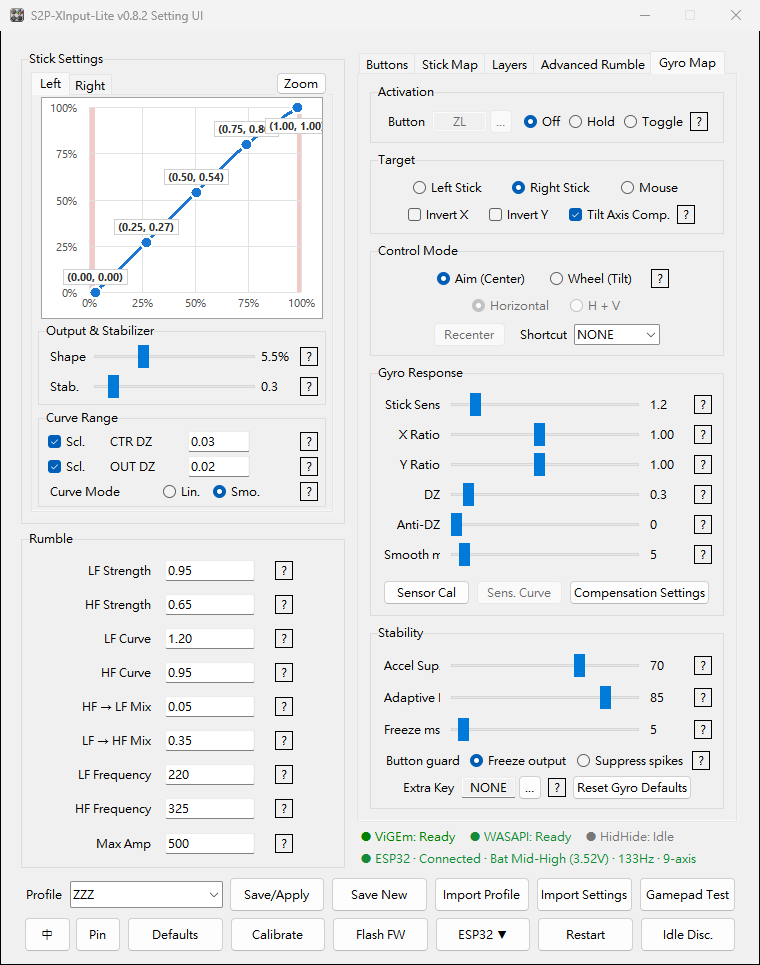
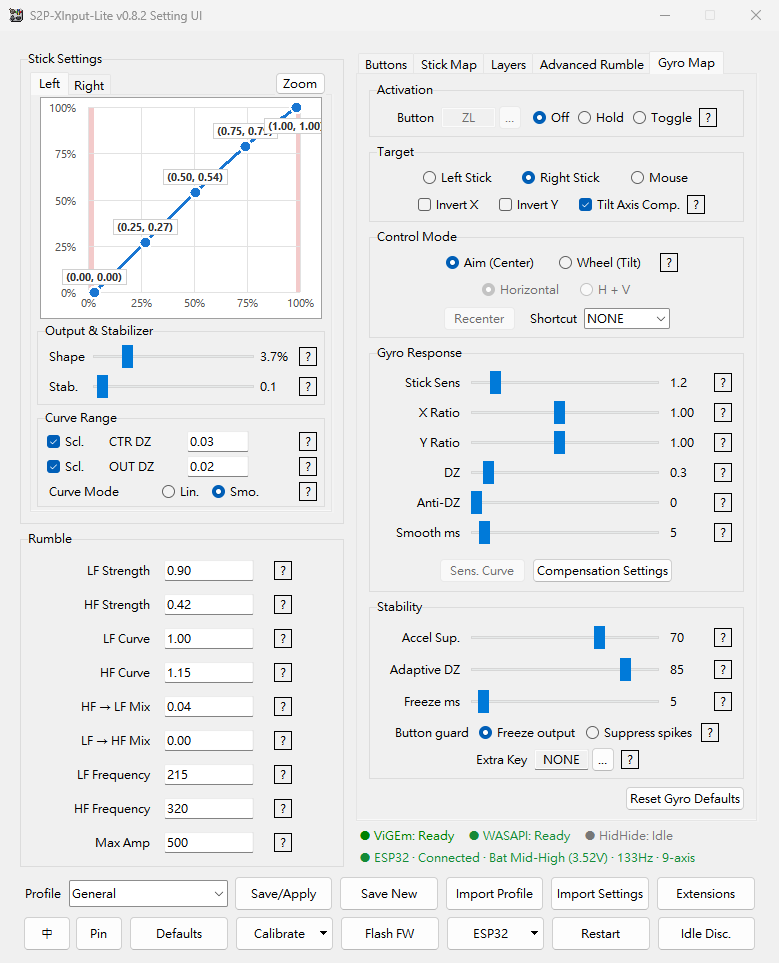
Add stable section anchors to the user guides and retake the gyro screenshots
The release notes link each new feature to its section in the guide for the reader's language. The Gyro Map tab and Compensation Settings screenshots now show the current layout and the Keep the original speed cap option.

diff --git a/manual/USER_GUIDE.md b/manual/USER_GUIDE.md
@@ -87,6 +87,8 @@ running, outputs XInput through ViGEmBus, and handles rumble and audio rumble.
 ESP32-S3 itself acts as a USB HID controller. Physical USB XInput has
 licensing issues and must not be added.
 
+<a name="connector-window"></a>
+
 ### 1.4 Connector window and notification area
 
 Connecting opens a separate black connector (CMD) window that shows pairing,
@@ -217,6 +219,8 @@ before it disconnects: **Off**, 5, 10, 15, 30, or 60 minutes. The default is
 After it disconnects, the status bar shows
 `ESP32 · Idle; press any button to wake`. Press any controller button to wake
 and reconnect.
+
+<a name="extensions"></a>
 
 ### 2.7 Extensions
 
@@ -411,6 +415,8 @@ key combination to map, such as F12, Ctrl+S, or Ctrl+Shift+S. The field shows
 short forms such as `KB:1`, `KB:Ctrl+S`, and `M:Wheel↓`. Hover over it to see
 the full mapping.
 
+<a name="gamepad-combo"></a>
+
 #### Press several XInput buttons at once
 
 ![Choosing a gamepad combo](assets/v0.8.2/gamepad-combo.png)
@@ -580,6 +586,8 @@ explains it in detail.
   **Shortcut** reset the neutral angle. A shortcut assigned here only resets
   the neutral angle and no longer sends its game mapping.
 
+<a name="gyro-response"></a>
+
 ### 6.4 Gyro Response
 
 Only the fields that apply to the current target and control mode are shown.
@@ -615,6 +623,8 @@ output after the curve. **Mode** chooses **Lin.**, **Late** (accelerates near
 the end), or **Early** (accelerates at the start). **Lvl** sets how strongly
 the curve bends. Select **OK**, then **Save/Apply** in the main window.
 
+<a name="gyro-compensation"></a>
+
 #### Compensation settings
 
 ![Gyro compensation settings](assets/v0.8.2/gyro-compensation-settings.png)
@@ -636,6 +646,8 @@ and is off by default.
 
 To work out a suitable multiplier, use
 [Gyro Preview and Calculator](#gyro-preview-and-calculator) in Gamepad Tester.
+
+<a name="gyro-stability"></a>
 
 ### 6.5 Stability
 
@@ -783,6 +795,8 @@ Selecting the button again brings the existing tester forward.
    Check that the dots and the event list change.
 4. Switch to **Aim Test**, **Rumble Test**, **Report Rate Test**, or
    **Diagnostics** as needed.
+
+<a name="test-source"></a>
 
 ### 8.1 Choose a test source
 
@@ -954,6 +968,8 @@ so dips show up even when the average is high. The drawing target follows the
 monitor's current refresh rate, and actual presentation also depends on
 Windows and the GPU.
 
+<a name="gyro-preview"></a>
+
 #### Gyro Preview and Calculator
 
 Raising the in-game look speed also speeds up gyro mapped to the right stick.
@@ -1002,6 +1018,8 @@ asked whether to reset them to 1.00 first.
 5. Select **Open S2P Compensation Settings**, or open **Compensation Settings**
    from **Gyro Map** in the main window. Enter the X and Y multipliers, select
    **OK**, then select **Save/Apply**.
+
+<a name="aim-results"></a>
 
 #### Read and compare results
 
@@ -1258,6 +1276,8 @@ the switch happened.
 
 Returning to Bridge keeps the last saved standalone settings. **Restart** only
 restarts the desktop connection.
+
+<a name="standalone-scope"></a>
 
 ### 9.7 Standalone mode scope
 
